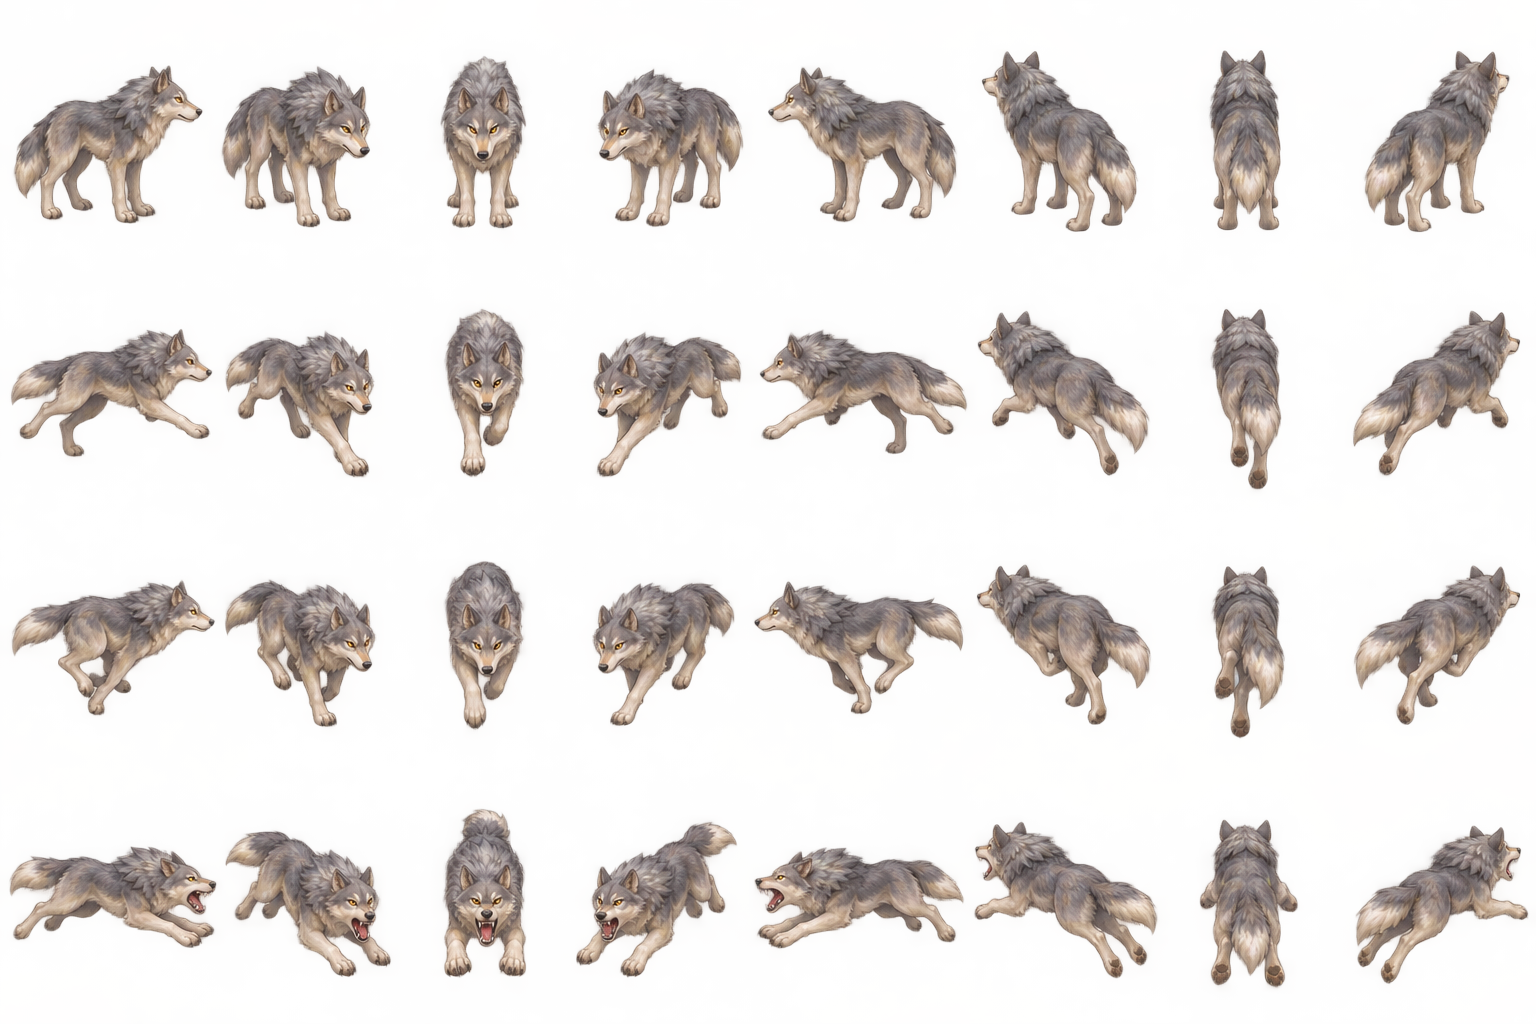
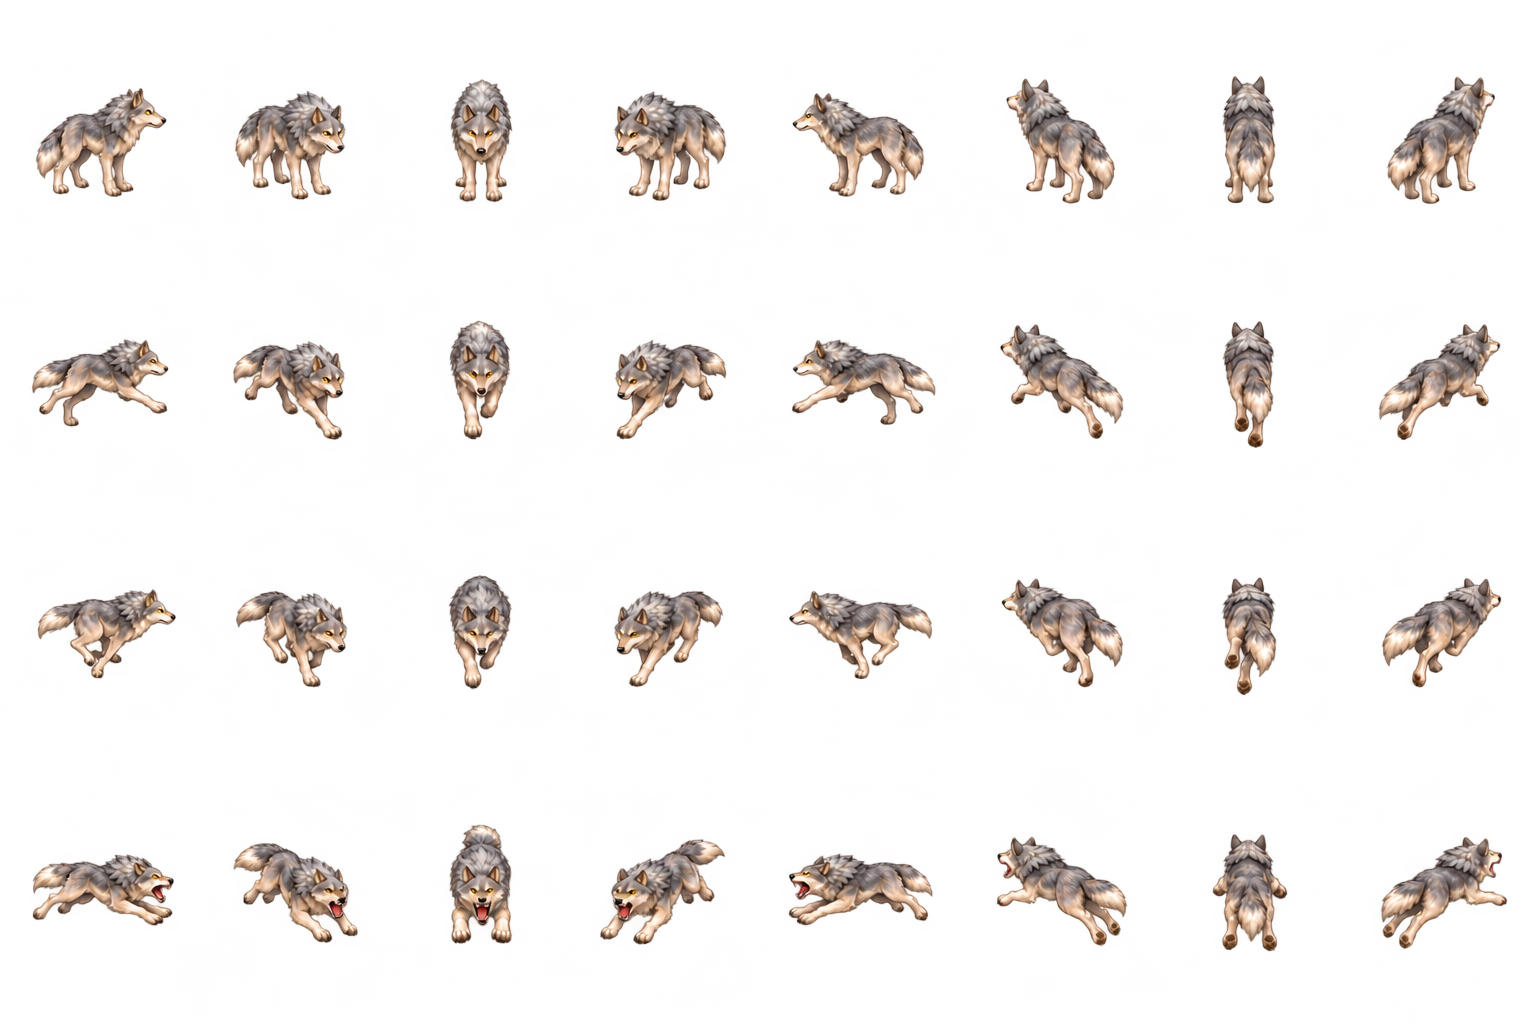
Fix wolf atlas cell bleeding and verify painted sprites across all class skills

diff --git a/js/assets/actorArt.js b/js/assets/actorArt.js
@@ -6,7 +6,7 @@ export const ACTOR_ART=Object.freeze({
  paladin:{key:'actor-paladin',url:'assets/actors/heroes/paladin.png',atlasURL:'assets/actors/heroes/paladin.json',scale:.52,baselines:{idle:230,'run-a':212,'run-b':198,attack:182},equipment:true,weaponType:'sword'},
  assassin:{key:'actor-assassin',url:'assets/actors/heroes/assassin.png',atlasURL:'assets/actors/heroes/assassin.json',scale:.47,baselines:{idle:237,'run-a':218,'run-b':209,attack:201},equipment:true,weaponType:'dagger'},
  cannoneer:{key:'actor-cannoneer',url:'assets/actors/heroes/cannoneer.png',atlasURL:'assets/actors/heroes/cannoneer.json',scale:.50,baselines:{idle:231,'run-a':220,'run-b':210,attack:200},equipment:true,weaponType:'cannon',equipmentScaleY:.78},
- forestWolf:{key:'actor-forest-wolf',url:'assets/actors/monsters/forestWolf.png',atlasURL:'assets/actors/monsters/forestWolf.json',scale:.35,baselines:{idle:225,'run-a':225,'run-b':225,attack:225}}
+ forestWolf:{key:'actor-forest-wolf',url:'assets/actors/monsters/forestWolf.png',atlasURL:'assets/actors/monsters/forestWolf.json',scale:.48,baselines:{idle:201,'run-a':183,'run-b':175,attack:176}}
 });
 export const ACTOR_DIRECTIONS=Object.freeze(['e','se','s','sw','w','nw','n','ne']);
 export function actorPose(state,angle,elapsed,progress=0){
